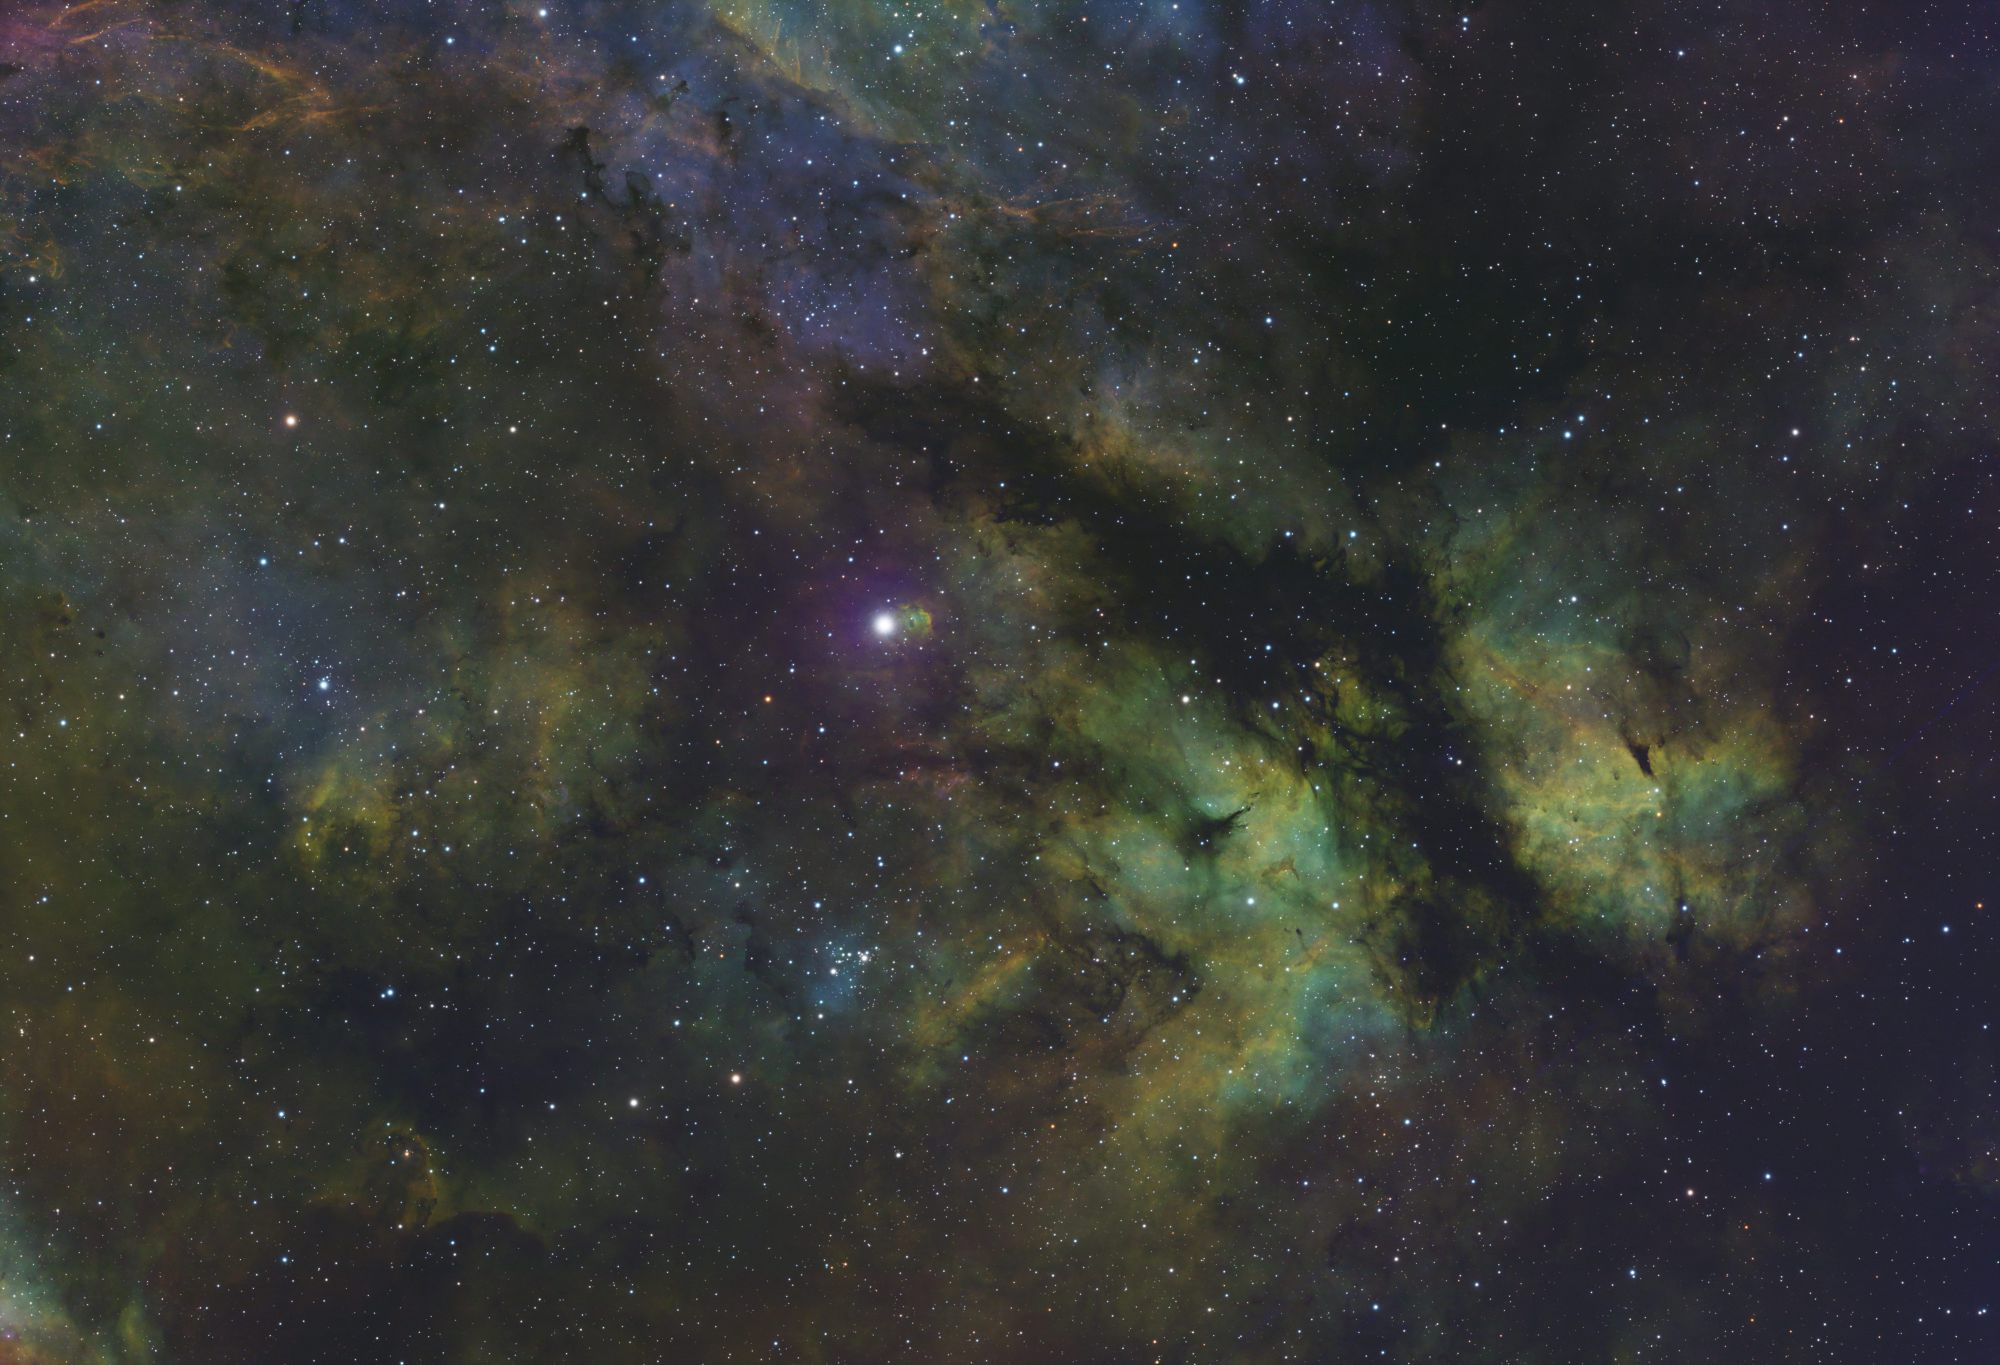
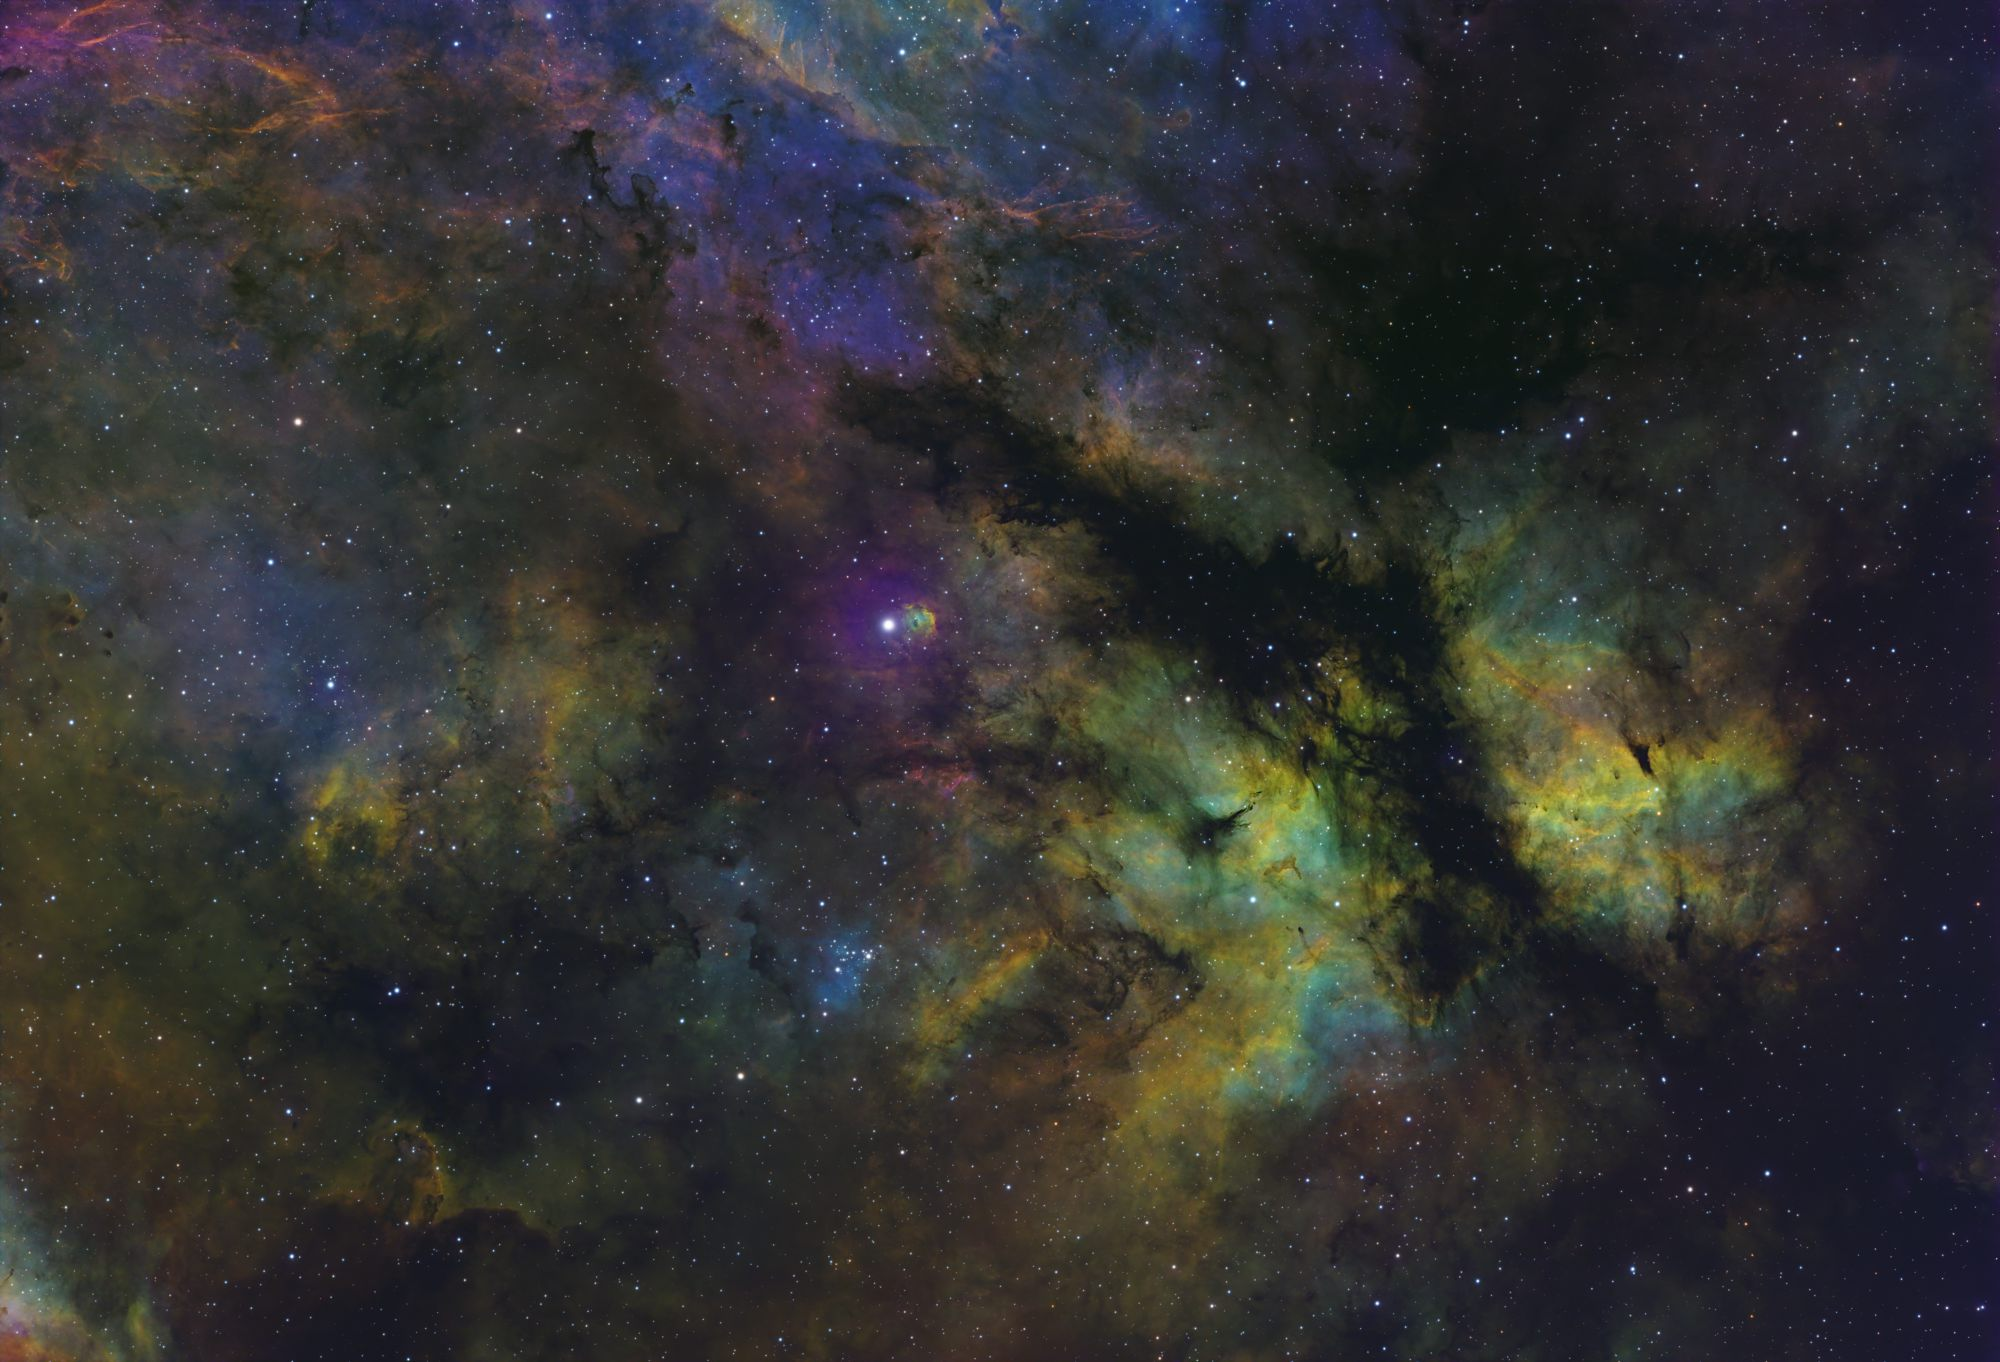
added new image

diff --git a/src/Home.tsx b/src/Home.tsx
@@ -8,7 +8,7 @@ const images = [
     image: "images/sho_sadr.jpg",
     name: "SH2-108 - Sadr Region SHO",
     imageLink: "",
-    int_time: "3.8 hours",
+    int_time: "13 hours",
     camera: "ASI 294MM Pro",
     fl: "335mm f/4.7",
     mount: "Skywatcher HEQ5 Pro",
